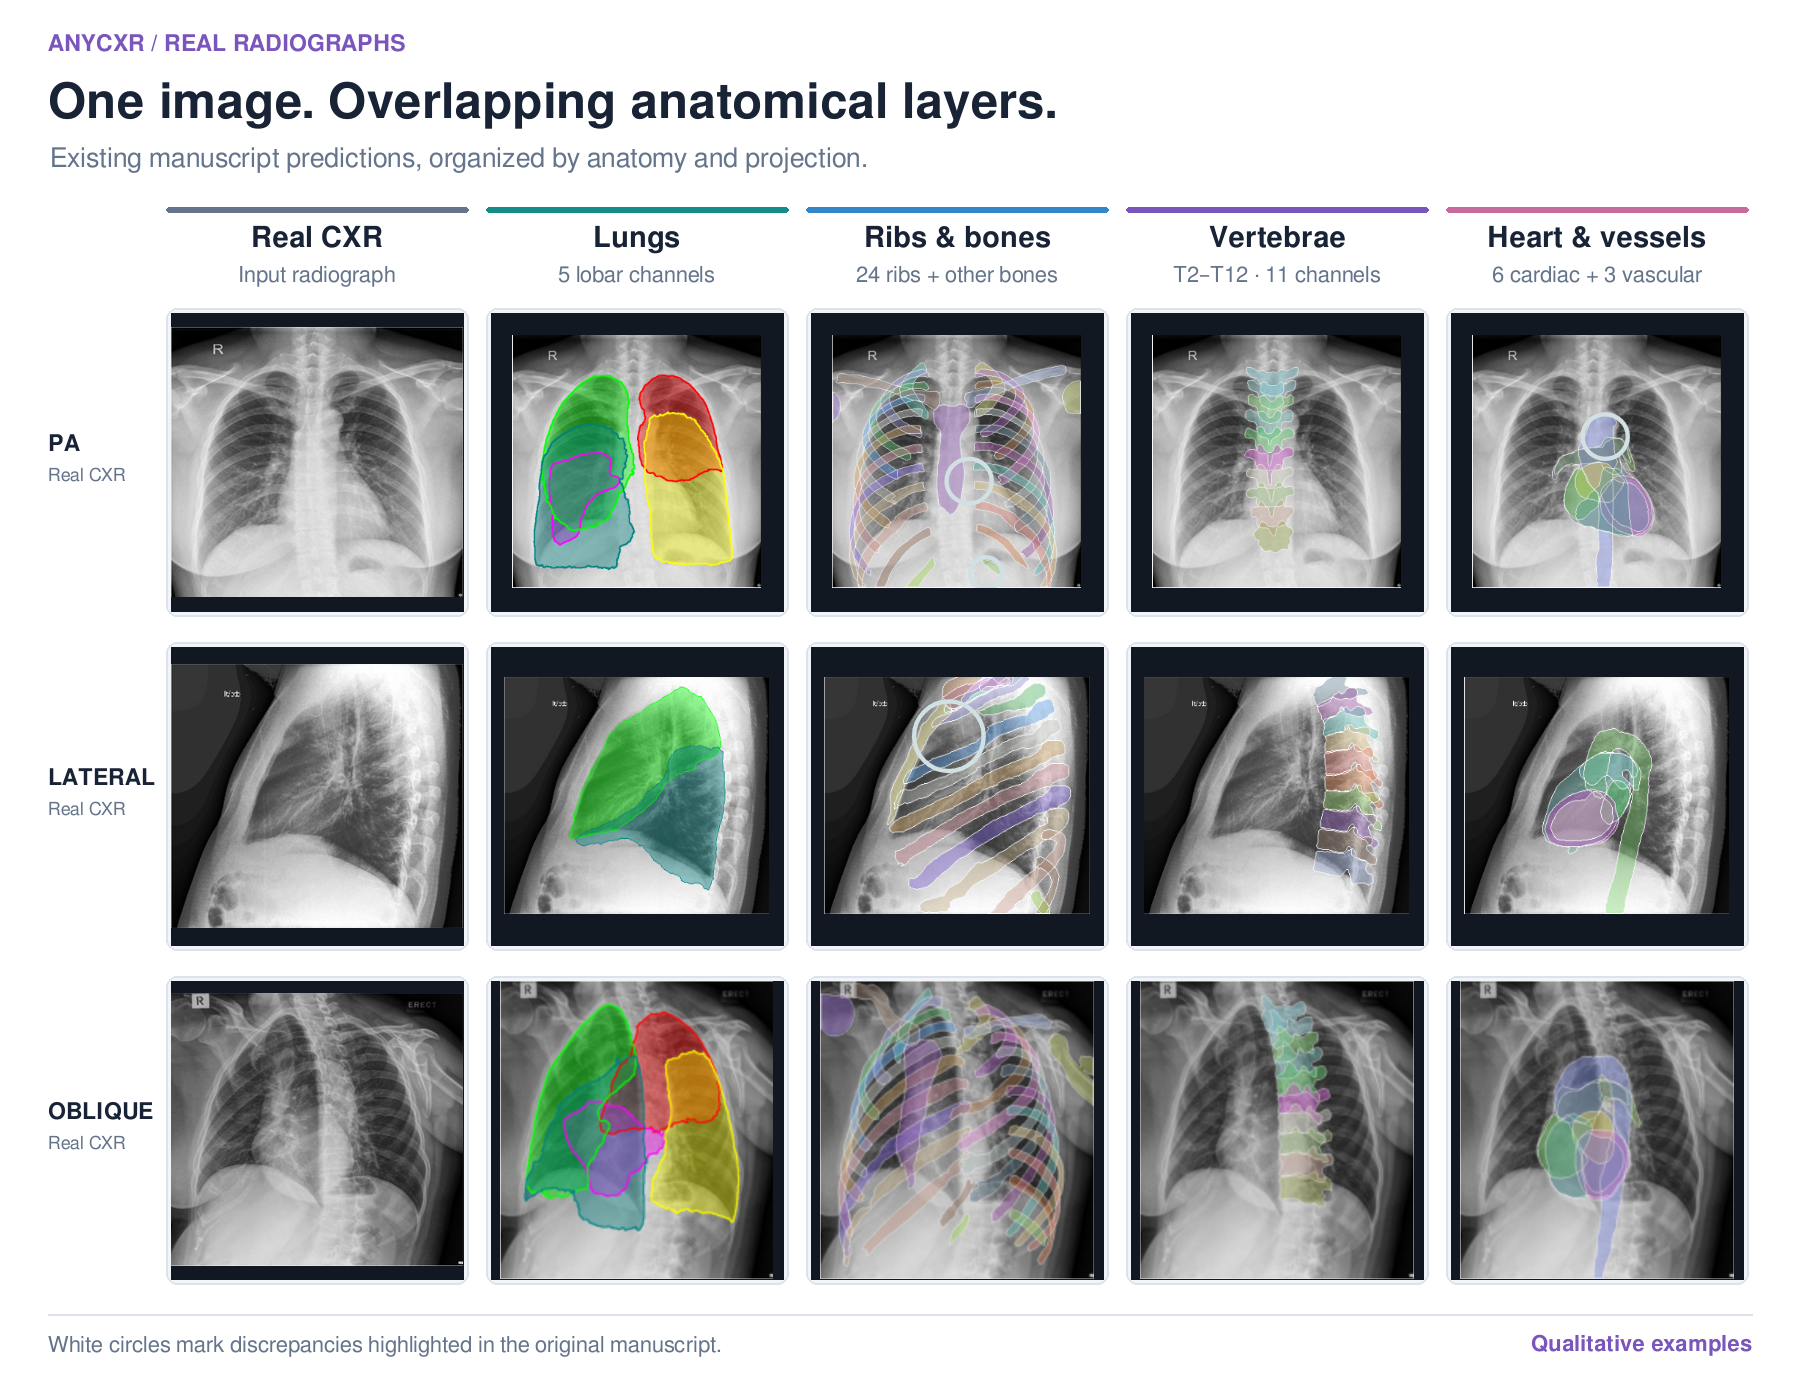
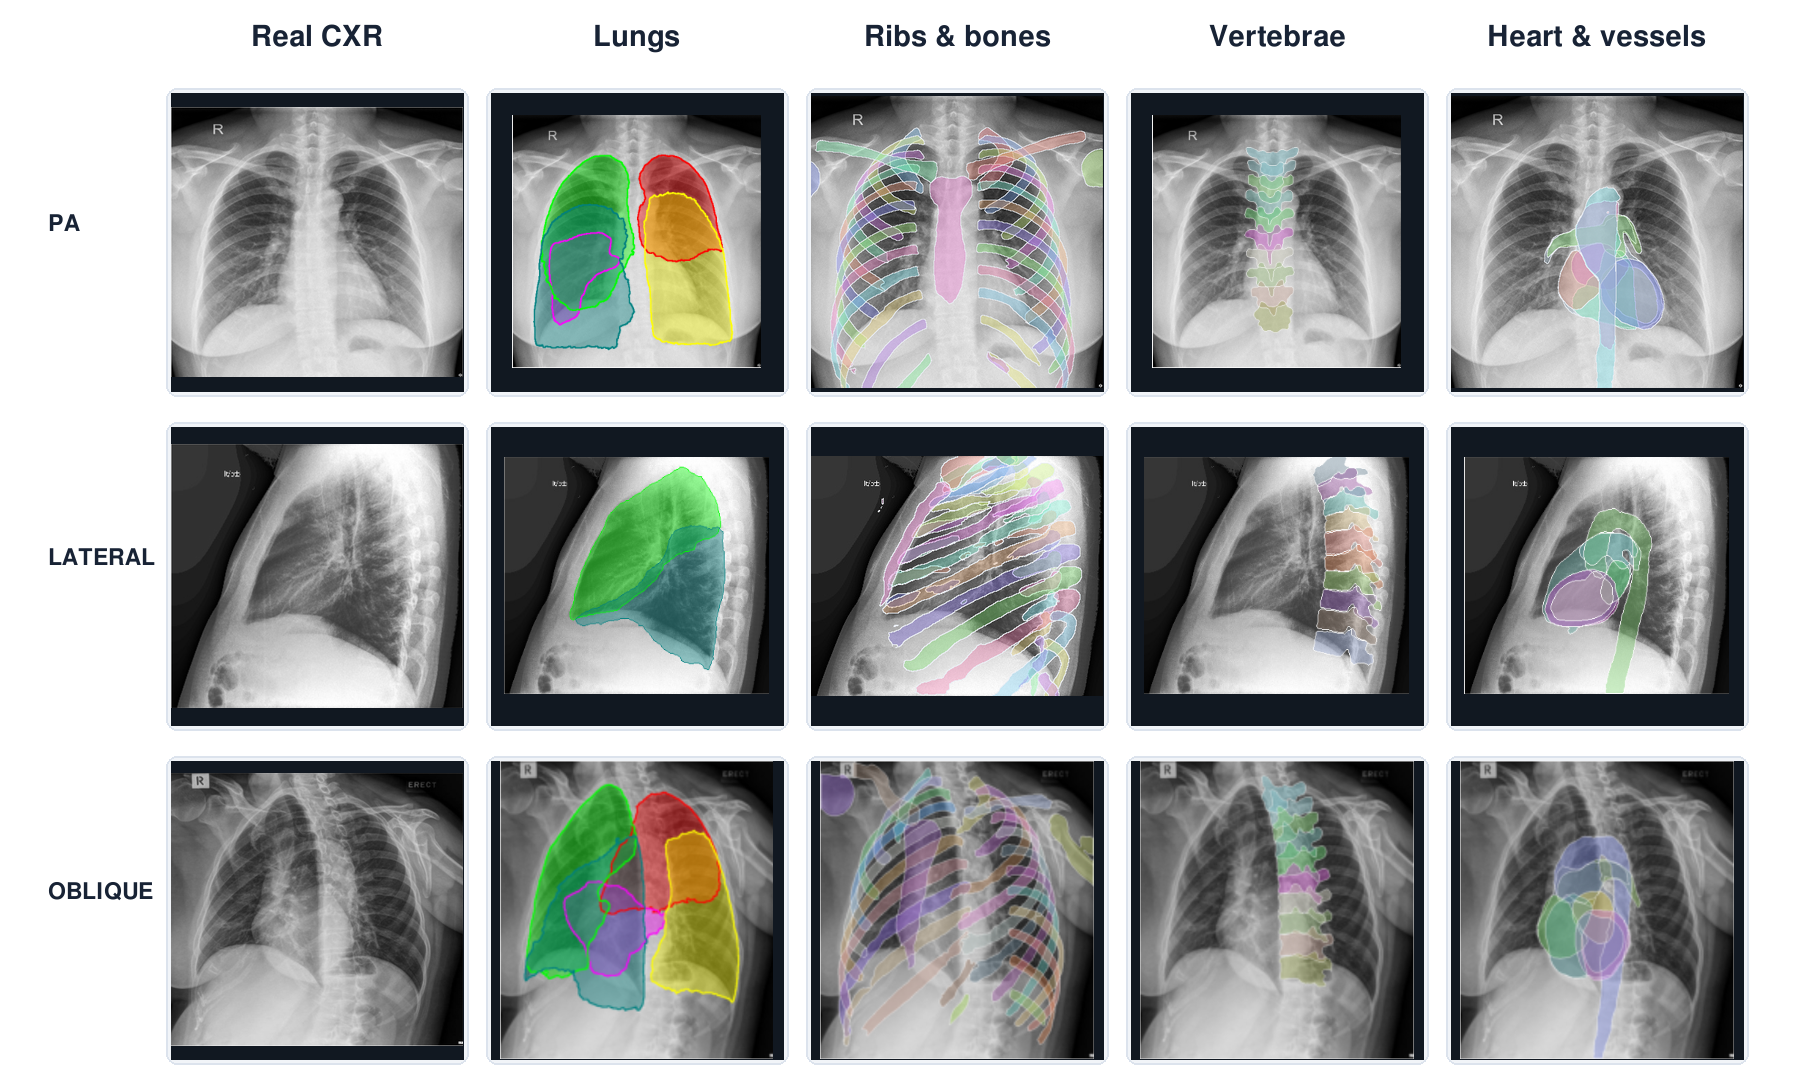
Simplify real-CXR gallery and replace circled panels with native mask renders

diff --git a/scripts/build_readme_assets.py b/scripts/build_readme_assets.py
@@ -1,16 +1,18 @@
 #!/usr/bin/env python3
 """Compose README figures from retained manuscript panels; export the anatomy catalog.
 
-Requires Pillow (already an inference dependency). No model, weights or patient
-dataset is loaded. See docs/assets/README.md for source and interpretation.
+Requires Pillow (already an inference dependency). Default builds use retained
+presentation panels; optional rendering reads existing prediction PNGs. No model
+or weights are loaded. See docs/assets/README.md for source and interpretation.
 """
 
 import argparse
+import colorsys
 import hashlib
 import json
 from pathlib import Path
 
-from PIL import Image, ImageDraw, ImageFont
+from PIL import Image, ImageChops, ImageDraw, ImageFilter, ImageFont
 
 
 ROOT = Path(__file__).resolve().parents[1]
@@ -50,6 +52,7 @@ BLUE = "#3387c8"
 TEAL = "#168c86"
 PINK = "#c76b9d"
 LINE = "#dce3ed"
+NATIVE_GROUPS = {("pa", "ribs"), ("pa", "heart-vessels"), ("lateral", "ribs")}
 
 
 def sha(path):
@@ -117,6 +120,62 @@ def verify_sources():
     for record in manifest["assets"]:
         if sha(ROOT / record["asset"]) != record["sha256"]:
             raise ValueError("Source panel differs from manifest: " + record["asset"])
+    clean_manifest = json.loads((ASSETS / "native-panels.json").read_text())
+    for record in clean_manifest["panels"]:
+        if sha(ROOT / record["asset"]) != record["sha256"]:
+            raise ValueError("Native prediction panel differs from manifest: " + record["asset"])
+
+
+def render_native_panels(input_dir):
+    """Render existing masks without the manuscript's presentation circles."""
+    names = json.loads((ROOT / "cxas/data/anychest_reference.json").read_text())["class_names"]
+    groups = {
+        "lungs": [n for n in names if n.startswith("lung_")],
+        "ribs": [n for n in names if n.startswith(("rib_", "clavicula_", "humerus_")) or n == "sternum"],
+        "vertebrae": [n for n in names if n.startswith("vertebrae_")],
+        "heart-vessels": ["heart"] + [n for n in names if n != "heart" and (n.startswith("heart_") or n in {"aorta", "aorta_long", "pulmonary_artery"})],
+    }
+    lung_colors = {"lung_upper_lobe_left": (238, 55, 63), "lung_lower_lobe_left": (245, 215, 44),
+                   "lung_upper_lobe_right": (53, 209, 80), "lung_middle_lobe_right": (177, 75, 224),
+                   "lung_lower_lobe_right": (34, 174, 173)}
+    panels, source_hashes = [], {}
+    for view in ("pa", "lateral"):
+        folder = input_dir / view
+        image_path, = folder.glob("input.*")
+        source_hashes[view] = {"image_sha256": sha(image_path),
+                               "mask_sha256": {n: sha(folder / (n + ".png")) for n in names}}
+        with Image.open(image_path) as im:
+            base = im.convert("RGB")
+            base.thumbnail((768, 768), Image.Resampling.LANCZOS)
+        for group, selected in groups.items():
+            if (view, group) not in NATIVE_GROUPS:
+                continue
+            overlay = base.copy()
+            for i, name in enumerate(selected):
+                color = lung_colors.get(name)
+                if color is None:
+                    rgb = colorsys.hsv_to_rgb((0.57 + i * 0.61803398875) % 1, 0.56, 0.93)
+                    color = tuple(round(v * 255) for v in rgb)
+                with Image.open(folder / (name + ".png")) as im:
+                    mask = im.convert("L").point(lambda v: 255 if v > 127 else 0)
+                    mask = mask.resize(base.size, Image.Resampling.NEAREST)
+                alpha = 32 if name == "heart" else 85
+                tint = Image.blend(overlay, Image.new("RGB", base.size, color), alpha / 255)
+                overlay.paste(tint, (0, 0), mask)
+                contour = ImageChops.subtract(mask, mask.filter(ImageFilter.MinFilter(3)))
+                edge_color = color if group == "lungs" else (235, 239, 245)
+                overlay.paste(Image.new("RGB", base.size, edge_color), (0, 0), contour)
+            dest = SOURCE / f"native-{view}-{group}.png"
+            overlay.save(dest, optimize=True)
+            panels.append({"asset": str(dest.relative_to(ROOT)), "sha256": sha(dest),
+                           "view": view, "group": group, "class_names": selected})
+    manifest = {"source": "Retained manuscript per-class prediction PNGs for the matched PA and lateral examples",
+                "input_matching": "Image correlation against retained manuscript input panels exceeds 0.99 for both examples",
+                "operations": ["threshold existing mask PNGs at 127", "nearest-neighbor mask display resize",
+                               "translucent color overlay", "mask boundary outline"],
+                "mask_editing": False, "new_inference": False,
+                "source_hashes": source_hashes, "panels": panels}
+    (ASSETS / "native-panels.json").write_text(json.dumps(manifest, indent=2) + "\n")
 
 
 def build_overview():
@@ -186,30 +245,18 @@ def build_overview():
 
 
 def build_real_gallery():
-    canvas = Image.new("RGB", (1800, 1388), "#ffffff")
+    canvas = Image.new("RGB", (1800, 1088), "#ffffff")
     d = ImageDraw.Draw(canvas)
-    text(d, (48, 32), "ANYCXR / REAL RADIOGRAPHS", 23, PURPLE, True)
-    text(d, (48, 78), "One image. Overlapping anatomical layers.", 49, INK, True)
-    text(d, (50, 145), "Existing manuscript predictions, organized by anatomy and projection.", 27, MUTED)
-    headers = [("Real CXR", "Input radiograph", MUTED),
-               ("Lungs", "5 lobar channels", TEAL),
-               ("Ribs & bones", "24 ribs + other bones", BLUE),
-               ("Vertebrae", "T2–T12 · 11 channels", PURPLE),
-               ("Heart & vessels", "6 cardiac + 3 vascular", PINK)]
+    headers = ["Real CXR", "Lungs", "Ribs & bones", "Vertebrae", "Heart & vessels"]
     xs = [166 + i * 320 for i in range(5)]
-    for x, (title, subtitle, color) in zip(xs, headers):
-        d.rounded_rectangle((x, 207, x + 302, 212), 2, fill=color)
-        text(d, (x + 151, 225), title, 29, INK, True, "mt")
-        text(d, (x + 151, 265), subtitle, 22, MUTED, anchor="mt")
-    for view, label, y in [("pa", "PA", 308), ("lateral", "LATERAL", 642), ("oblique", "OBLIQUE", 976)]:
+    for x, title in zip(xs, headers):
+        text(d, (x + 151, 24), title, 29, INK, True, "mt")
+    for view, label, y in [("pa", "PA", 88), ("lateral", "LATERAL", 422), ("oblique", "OBLIQUE", 756)]:
         text(d, (48, y + 124), label, 23, INK, True)
-        text(d, (48, y + 158), "Real CXR", 18, MUTED)
         for x, group in zip(xs, ["input", "lungs", "ribs", "vertebrae", "heart-vessels"]):
             d.rounded_rectangle((x, y, x + 302, y + 308), 11, fill="#f1f4f8", outline=LINE, width=2)
-            image_box(canvas, SOURCE / f"real-{view}-{group}.png", (x + 5, y + 5, 292, 298), "#111821")
-    d.line((48, 1314, 1752, 1314), fill=LINE, width=2)
-    text(d, (48, 1334), "White circles mark discrepancies highlighted in the original manuscript.", 22, MUTED)
-    text(d, (1752, 1334), "Qualitative examples", 22, PURPLE, True, "rt")
+            name = f"native-{view}-{group}" if (view, group) in NATIVE_GROUPS else f"real-{view}-{group}"
+            image_box(canvas, SOURCE / f"{name}.png", (x + 5, y + 5, 292, 298), "#111821")
     canvas.save(ASSETS / "anycxr-real-anatomy.png", optimize=True)
 
 
@@ -281,9 +328,12 @@ def build_catalog():
 def main():
     parser = argparse.ArgumentParser(description=__doc__)
     parser.add_argument("--paper-figures", type=Path, help="Optional original manuscript figure directory to recrop retained panels")
+    parser.add_argument("--native-predictions", type=Path, help="Optional matched PA/lateral input and existing class-mask directories to render overlays")
     args = parser.parse_args()
     if args.paper_figures:
         prepare_sources(args.paper_figures)
+    if args.native_predictions:
+        render_native_panels(args.native_predictions)
     verify_sources()
     build_overview()
     build_real_gallery()

diff --git a/docs/assets/README.md b/docs/assets/README.md
@@ -3,9 +3,9 @@
 Two figures introduce the method and show the existing real-CXR examples:
 
 - [anycxr-overview.png](anycxr-overview.png): a redesigned overview using the manuscript's CT and 3D anatomy illustrations, bundled synthetic inputs, a simplified learning schematic, and the original real PA input/predicted lung panel.
-- [anycxr-real-anatomy.png](anycxr-real-anatomy.png): the input and **prediction** panels from `Real_compare.png`, reordered as lungs, ribs/bones, vertebrae, and heart/vessels for PA, lateral and oblique examples. Expert-refined annotation rows are omitted.
+- [anycxr-real-anatomy.png](anycxr-real-anatomy.png): inputs and predictions for the `Real_compare.png` examples, reordered as lungs, ribs/bones, vertebrae, and heart/vessels. The three panels containing white presentation circles (PA ribs/bones, PA heart/vessels, lateral ribs/bones) are rendered from the matching retained per-class prediction PNGs. Other panels retain the original manuscript crops. Only anatomical group and projection labels appear in the figure.
 
-The real examples come from the AnyCXR manuscript, rather than the synthetic inputs bundled with the inference CLI. They illustrate the manuscript model; they are not fresh predictions from the current frontal candidate or a new benchmark. The views are separate examples; the source does not establish that all three belong to one patient. Lung colors follow the original overlays, and overlapping structures are retained. White circles remain visible where the manuscript highlighted discrepancies requiring expert editing. The expert-refined references in the manuscript started from predictions and are not independent blind ground truth.
+The real examples come from the AnyCXR manuscript, rather than the synthetic inputs bundled with the inference CLI. They illustrate the manuscript model; they are not fresh predictions from the current frontal candidate or a new benchmark. The views are separate examples; the source does not establish that all three belong to one patient. Overlapping structures are retained. The expert-refined references in the manuscript started from predictions and are not independent blind ground truth.
 
 ## Sources and faithful composition
 
@@ -15,9 +15,9 @@ The source is the retained manuscript repository [Agaresd47/Anycxr_overleaf](htt
 - `figure/Real_compare.png`: real PA, lateral and oblique input/prediction panels.
 - `figure/model.png` and the accompanying method text inform the simplified partial-label/CAR schematic. This schematic is conceptual, not a layer-by-layer network specification.
 
-[sources.json](sources.json) records the parent-image SHA-256, exact crop boxes, retained panel paths and panel hashes. The original clinical image/overlay pixels are cropped, resized with their aspect ratio preserved, and composed into a new layout. There is no anatomical repainting, mask correction, new inference or training. Original discrepancy circles are not removed. The CT/3D illustration and synthetic thumbnails are conceptual examples, not a registered chain of one patient across CT, DRR and real CXR.
+[sources.json](sources.json) records the parent-image SHA-256, exact crop boxes, retained manuscript panel paths and panel hashes. [native-panels.json](native-panels.json) records the source image/mask hashes and the three rendered panel hashes. The PA/lateral inputs were matched to the manuscript input panels with image correlation above 0.99. The affected groups' original per-class prediction masks are displayed with translucent colors and boundary outlines, without adding the manuscript's discrepancy circles. No mask boundary was edited, and no inpainting, new inference or training was used. Other panels retain their original cropped pixels. The CT/3D illustration and synthetic thumbnails are conceptual examples, not a registered chain of one patient across CT, DRR and real CXR.
 
-The original manuscript rasters set the available resolution. Source crops are retained in [source/](source/), allowing the figures to be rebuilt without access to a private paper repository or a clinical dataset.
+The original manuscript rasters set the resolution of the retained crops. Source crops and rendered native panels are retained in [source/](source/), allowing the figures to be rebuilt without access to a private paper repository or a clinical dataset. Original crop files, including the presentation circles, remain available as source history; the gallery uses separate native prediction renders for the three affected panels.
 
 ## Rebuild
 
@@ -27,10 +27,12 @@ With the inference package's Pillow dependency and either FreeSans or DejaVu San
 python scripts/build_readme_assets.py
 ```
 
-This verifies all retained panel hashes, rebuilds both figures, and generates [anatomy.json](../anatomy.json) and [anatomy.md](../anatomy.md) from the packaged 54-channel reference. It does not load weights or run inference. To recreate the crops from an original manuscript checkout:
+This verifies all retained panel hashes, rebuilds both figures, and generates [anatomy.json](../anatomy.json) and [anatomy.md](../anatomy.md) from the packaged 54-channel reference. It does not load weights or run inference. To recreate the original crops from a manuscript checkout:
 
 ```bash
 python scripts/build_readme_assets.py --paper-figures /path/to/Anycxr_overleaf/figure
 ```
 
 Use the recorded manuscript revision when recreating crops; a different raster may require new crop coordinates and provenance.
+
+To rerender the PA/lateral overlays from retained native predictions, pass `--native-predictions /path/to/matched-predictions`. That directory must contain `pa/` and `lateral/`, each with `input.png` (or `input.jpg`) and the 54 class-name PNG masks. Native image and mask files are not distributed with these documentation assets; the rendered panels and anonymous source hashes are retained here.

diff --git a/README.md b/README.md
@@ -33,7 +33,7 @@ This is the **primary lab repository** for AnyCXR. The current inference release
   <a href="docs/assets/anycxr-real-anatomy.png"><img src="docs/assets/anycxr-real-anatomy.png" alt="Real PA, lateral and oblique chest X-rays from the manuscript, with original prediction panels arranged as lungs, ribs and bones, thoracic vertebrae, and heart and vessels" width="100%"></a>
 </p>
 
-**Lungs → ribs → vertebrae → heart and vessels.** These are the existing real-CXR examples from the manuscript's `Real_compare.png`, arranged by anatomical group. Each row shows one input and its grouped predictions; the three views are separate examples, with no asserted cross-view patient correspondence. White circles retain the manuscript's highlighted prediction discrepancies. The examples illustrate the manuscript model and are not a new accuracy benchmark or outputs from the unpublished frontal candidate.
+**Lungs → ribs → vertebrae → heart and vessels.** Real PA, lateral and oblique examples from the manuscript, showing each input alongside its grouped anatomical predictions.
 
 Browse all **54 supported output channels** in the [anatomy catalog](docs/anatomy.md), or use the [machine-readable JSON](docs/anatomy.json) for group names, class names and exact channel indices. [Figure sources and reproduction](docs/assets/README.md) document the original panels and composition.
 
